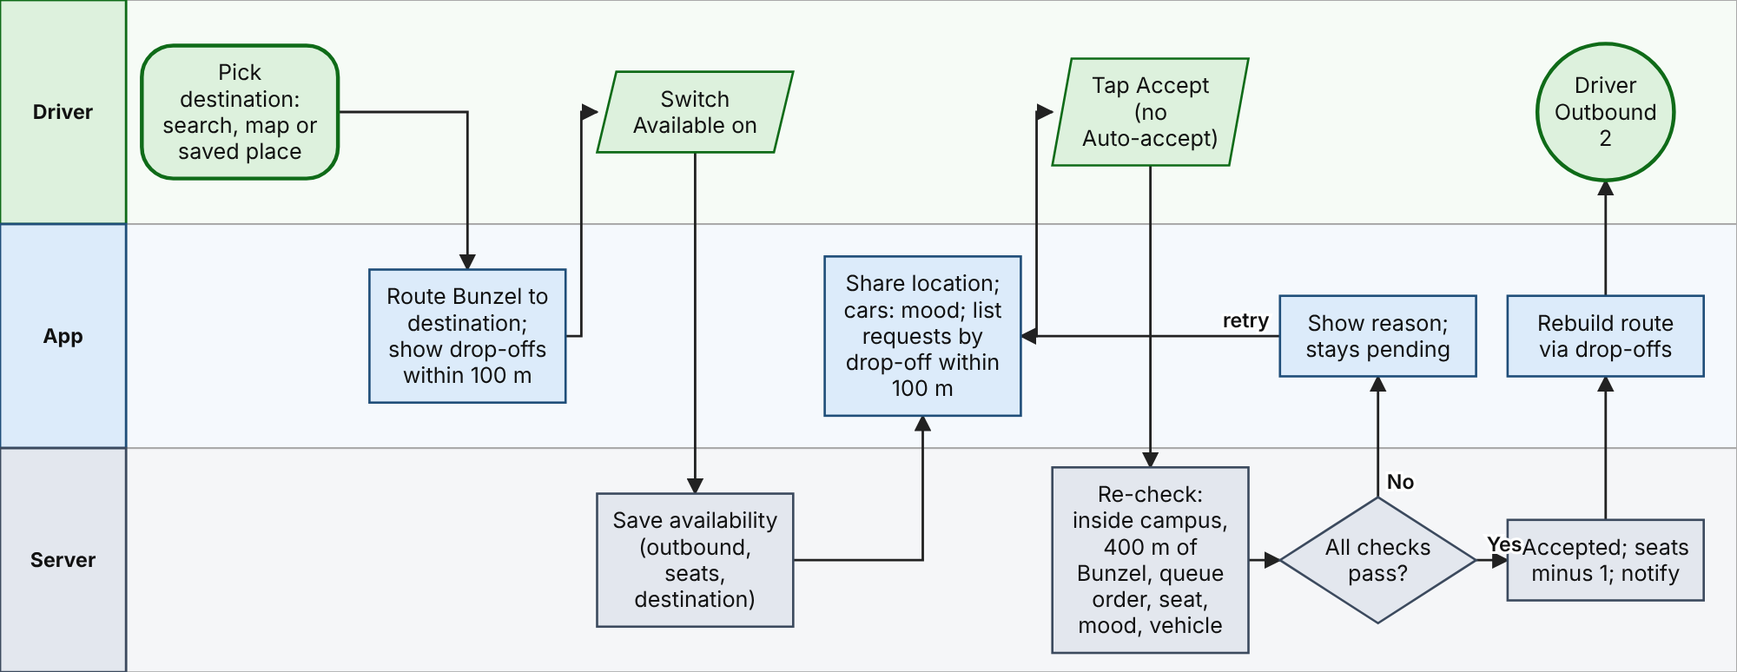
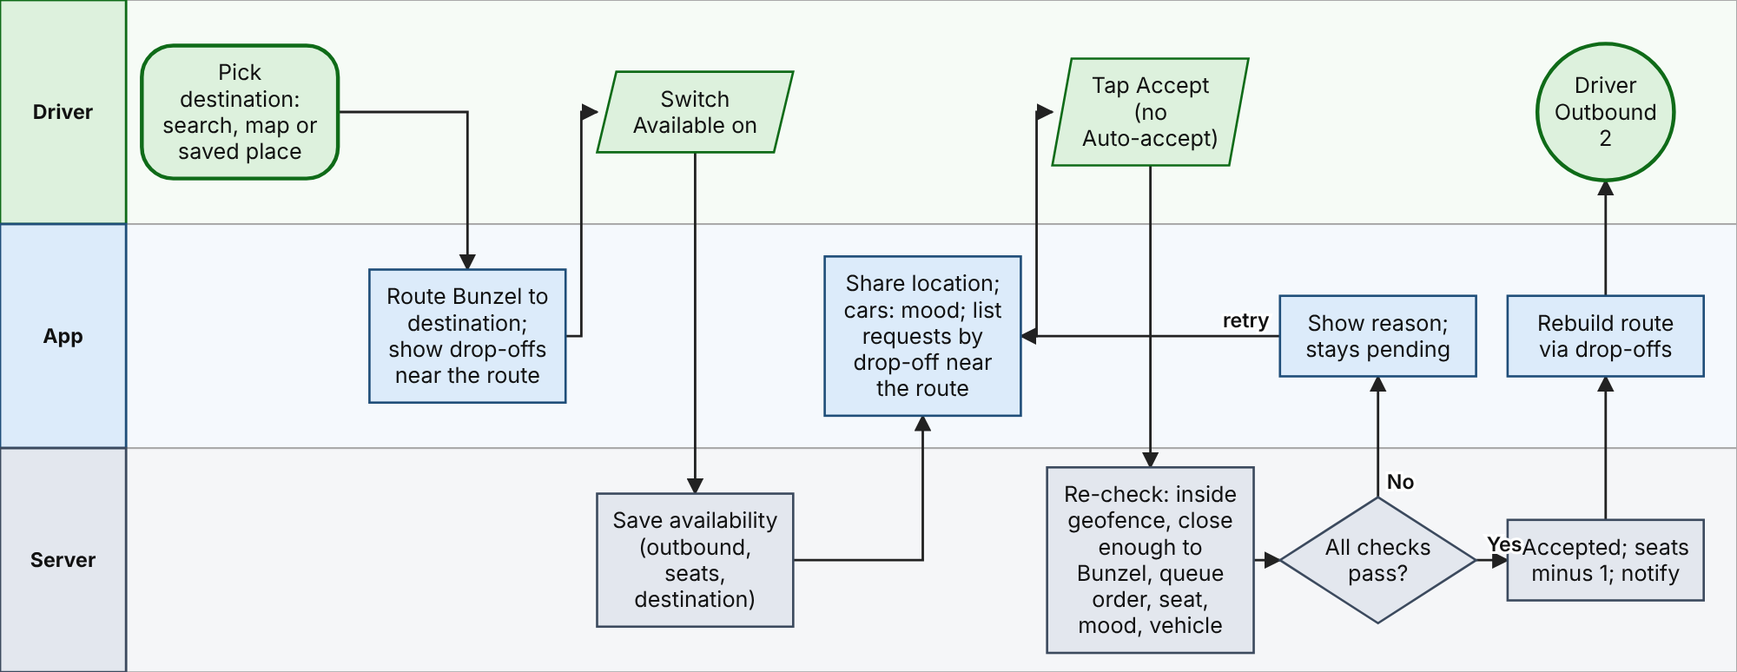
Show the rules for both settings, make the driver flowcharts general
Add a table of the distance and area rules for real-life commuting and for
the controlled setting, make the distance statements point to it, make the
matching conditions figure general, and replace the five driver flowcharts
with versions that apply to both settings.

Changed region(s): [[0.589, 0.7132, 0.744, 0.8372], [0.465, 0.5271, 0.589, 0.5891], [0.217, 0.5271, 0.31, 0.5891]]

diff --git a/chapter3.tex b/chapter3.tex
@@ -347,7 +347,7 @@ When requesting a ride, passengers select the moods they accept (Lively, Chill, 
 
 \textbf{Why a fail-open filter.} The AI is an optional layer on the ridesharing function, so it must not be able to stop a ride. The alternatives were to exclude every driver whose tag does not match, including drivers whose tag is unknown, and to rank compatible drivers higher instead of excluding the others. Excluding unknown tags would block rides whenever the classifier is unsure or the microphone is unavailable, and it would thin the pool of drivers (Table~\ref{tab:ai-chance}). Ranking would limit the cost of a wrong tag, but it would also show passengers drivers whose mood they did not choose, so it is recommended for future work (Section~\ref{sec:recs}).
 
-The function first evaluates the following hard filters, numbered as in the use-case catalogue, all of which must hold: the request is still pending (HF-7); the driver is an approved driver whose account has not been suspended (HF-1) and who is set to Available on a route direction matching the request (HF-2); the driver’s stored location is on the correct side of the Bunzel geofence for that direction (outside it for inbound, inside it for outbound); at least one passenger seat remains (HF-4); and the driver is within 100 m of the pickup point for an inbound trip, or within 400 m for an outbound trip, by straight-line distance (HF-5). A passenger’s vehicle-type preference is then applied with the same fail-open rule as mood. When a passenger prefers a motorcycle, the mood selector is replaced by a short note and the mood preference is stored as Any, because motorcycles do not run mood detection. The driver can accept only the oldest pending request at that pickup point and direction (first-in, first-out, described below). For outbound trips, the driver must also have chosen a final destination. Route alignment (HF-3) is applied on the driver’s screen as a display filter, because the server stores the driver’s location but not the route, so a request is shown only when its pickup lies within 30 m of the remaining route.
+The function first evaluates the following hard filters, numbered as in the use-case catalogue, all of which must hold: the request is still pending (HF-7); the driver is an approved driver whose account has not been suspended (HF-1) and who is set to Available on a route direction matching the request (HF-2); the driver’s stored location is on the correct side of the geofence for that direction (outside it for inbound, inside it for outbound); at least one passenger seat remains (HF-4); and the driver is within the acceptance distance of the pickup point by straight-line distance (HF-5; Table~\ref{tab:rules-by-setting}). A passenger’s vehicle-type preference is then applied with the same fail-open rule as mood. When a passenger prefers a motorcycle, the mood selector is replaced by a short note and the mood preference is stored as Any, because motorcycles do not run mood detection. The driver can accept only the oldest pending request at that pickup point and direction (first-in, first-out, described below). For outbound trips, the driver must also have chosen a final destination. Route alignment (HF-3) is applied on the driver’s screen as a display filter, because the server stores the driver’s location but not the route, so a request is shown only when its pickup lies within the route-match distance of the remaining route (Table~\ref{tab:rules-by-setting}).
 
 Requests are served first-in, first-out. A passenger’s place in the queue is fixed by the time the passenger first joined and never resets when the passenger edits their preferences. This prevents users from gaming the queue and keeps the concurrency logic simple.
 
@@ -417,7 +417,7 @@ Campus fence & An inbound driver is off campus, and an outbound driver is on cam
 \hline
 Seats & At least one passenger seat remains. & Rejected \\
 \hline
-Distance & The driver is within 100 m (inbound) or 400 m (outbound) of the pickup point in a straight line. & Rejected \\
+Distance & The driver is within the acceptance distance of the pickup point in a straight line (Table~\ref{tab:rules-by-setting}). & Rejected \\
 \hline
 Mood & The passenger’s accepted moods are empty or include all three (Any), or the driver’s tag is unknown, or the tag is on the passenger’s list. & Rejected only when the tag is known and not on a partial list \\
 \hline
@@ -509,7 +509,7 @@ The routing system classifies trips relative to an operational polygon around th
 
 Bunzel Point is the fixed terminal for the study: inbound requests end at Bunzel, while outbound requests begin there. The other points selected for testing and demonstration are USC TC Portal, SMED/Dorm, SAS, RH Building, LRC Building, MR Hall, SAFAD, and TC Church. These points are within USC-TC but outside the Bunzel geofence.
 
-The application maintains a local copy of the polygon for an immediate direction indication and offline fallback. The server also classifies the passenger’s supplied current location when creating a request. For an inbound request, the server requires the destination to be at the Bunzel anchor and the passenger to be within 20~m of the selected pickup point. For an outbound request, the server requires the pickup to be at the Bunzel anchor.
+The application maintains a local copy of the polygon for an immediate direction indication and offline fallback. The server also classifies the passenger’s supplied current location when creating a request. For an inbound request, the server requires the destination to be at the Bunzel anchor and the passenger to be within the inbound request distance of the selected pickup point (Table~\ref{tab:rules-by-setting}). For an outbound request, the server requires the pickup to be at the Bunzel anchor.
 
 The route service requests route geometry, distance, and duration through the Google Routes API; OSRM provides a fallback. During driving, the application can request a new route when the driver is at least 75~m from the current route or has moved at least 50~m since the previous calculation, subject to a minimum interval of 15 seconds. These thresholds are implementation settings rather than evidence of routing accuracy.
 
@@ -592,9 +592,44 @@ The driver interface presents requests associated with pickup points near the re
     \label{fig: matching conditions}
 \end{figure}
 
-On the driver's screen, route alignment uses a 30~m proximity threshold from the relevant ride point to the remaining route. Requests at the same queue point and direction are ordered by creation time. On acceptance, the \texttt{matchRide} Cloud Function checks that the request is pending, the driver is available and approved, the trip direction and position relative to the Bunzel geofence agree, and a seat remains. The driver's straight-line distance from the pickup must be no more than 100~m for inbound trips or 400~m for outbound trips. The function also checks queue order and vehicle preference before updating the request and capacity in a transaction. An unknown vehicle type is treated as compatible. The server does not independently recheck the route-proximity filter because it does not have the route polyline.
+On the driver's screen, route alignment uses the route-match distance from the relevant ride point to the remaining route (Table~\ref{tab:rules-by-setting}). Requests at the same queue point and direction are ordered by creation time. On acceptance, the \texttt{matchRide} Cloud Function checks that the request is pending, the driver is available and approved, the trip direction and position relative to the geofence agree, and a seat remains. The driver's straight-line distance from the pickup must be no more than the acceptance distance of the trip's direction (Table~\ref{tab:rules-by-setting}). The function also checks queue order and vehicle preference before updating the request and capacity in a transaction. An unknown vehicle type is treated as compatible. The server does not independently recheck the route-proximity filter because it does not have the route polyline.
 
-Two further limits keep the interaction safe and relevant. An inbound passenger can only request a pickup point that is within 20~m of their position. A driver is shown a request only when its pickup point is within 30~m of the remaining route, and can accept it only when the driver is within 100~m of the pickup point for an inbound trip, or within 400~m for an outbound trip, and the passengers on board are below the vehicle's capacity. When a driver's position changes so that a waiting request becomes eligible under these checks, a Cloud Function uses the same server-side eligibility check as acceptance and sends a push notification, so the driver does not have to keep the screen open. To limit distraction, an inbound driver is prompted only when a passenger is 60 to 100~m ahead; the original design used a window of 300 to 400~m. When the match is accepted, the server also copies each side's display name and rating, and the driver's vehicle type and plate number, onto the request so that the two riders can recognize each other.
+The distances of these checks depend on the setting. The system was designed for real-life commuting. The controlled setting was used only for testing and demonstration, and it uses a smaller geofence and shorter distances. Table~\ref{tab:rules-by-setting} gives both.
+
+\begin{table}[htbp]
+    \centering
+    \caption{Distance and Area Rules by Setting}
+    \label{tab:rules-by-setting}
+    \small
+    \renewcommand{\arraystretch}{1.25}
+    \begin{tabular}{|>{\raggedright\arraybackslash}p{0.27\textwidth}|>{\raggedright\arraybackslash}p{0.30\textwidth}|>{\raggedright\arraybackslash}p{0.30\textwidth}|}
+        \hline
+        \textbf{Rule} & \textbf{Real-life commuting} & \textbf{Controlled setting (testing and demonstration)} \\
+        \hline
+        Geofence area & A polygon around the USC-TC campus & A smaller polygon around the Bunzel building \\
+        \hline
+        Trip direction & Inside the geofence: outbound. Outside: inbound. & Inside the Bunzel geofence: outbound. Outside: inbound. \\
+        \hline
+        Inbound request distance (passenger to the selected pickup point) & Within 100 m & Within 20 m \\
+        \hline
+        Outbound request (passenger) & Inside the campus geofence and within 100 m of Bunzel & Inside the Bunzel geofence \\
+        \hline
+        Route-match distance (point to the driver's route) & Within 100 m & Within 30 m \\
+        \hline
+        Acceptance distance, inbound (driver to the pickup point) & Within 400 m & Within 100 m \\
+        \hline
+        Acceptance distance, outbound (driver to the pickup point) & Within 400 m & Within 400 m \\
+        \hline
+        Pickup confirmation & No distance check after acceptance & No distance check after acceptance \\
+        \hline
+        Inbound ride completion & Inside the campus geofence or within 150 m of Bunzel & Inside the Bunzel geofence or within 150 m of Bunzel \\
+        \hline
+        Outbound drop-off confirmation & Within 30 m of the passenger's destination & Within 30 m of the passenger's destination \\
+        \hline
+    \end{tabular}
+\end{table}
+
+Two further limits keep the interaction safe and relevant. An inbound passenger can only request a pickup point that is within the inbound request distance of their position. A driver is shown a request only when its pickup point is within the route-match distance of the remaining route, and can accept it only when the driver is within the acceptance distance of the pickup point and the passengers on board are below the vehicle's capacity. When a driver's position changes so that a waiting request becomes eligible under these checks, a Cloud Function uses the same server-side eligibility check as acceptance and sends a push notification, so the driver does not have to keep the screen open. To limit distraction, an inbound driver is prompted only when a passenger is 60 to 100~m ahead; the original design used a window of 300 to 400~m. When the match is accepted, the server also copies each side's display name and rating, and the driver's vehicle type and plate number, onto the request so that the two riders can recognize each other.
 
 This logic is consistent with optimization practices found in ride-hailing literature, where user fairness and system-level route efficiency are jointly considered to balance service quality and operational practicality \cite{cao2021optimization}. Additionally, minimizing cognitive load on drivers through controlled notifications aligns with research showing that poorly timed prompts can contribute to distracted driving and reduce overall safety—particularly among younger, less experienced drivers such as university students \cite{xing2024understanding,oviedo2018young}. By showing a driver only requests that are on the route, close enough to accept, and within capacity, and by notifying only when a request becomes eligible, the system limits unnecessary prompts while maintaining real-time responsiveness in a multi-user environment.
 
@@ -690,7 +725,7 @@ Figure~\ref{fig:driver menu} shows the user flow for the Driver Menu. The driver
         \label{fig:ui-driver-menu}
     \end{figure}
 
-\paragraph{Inbound USC-TC} Figures~\ref{fig: Driver Inbound} and~\ref{fig: Driver Inbound 2} show the process a student driver follows when offering rides to USC-TC. The application draws a route from the driver's location to the Bunzel Lobby (Figure~\ref{fig:ui-driver-inbound}a). When the driver switches \emph{Available} on, the application saves the driver's availability, begins sharing the driver's location, and, for cars, starts mood detection (Section~\ref{sec:ai}). Requests whose pickup point lies within 30~m of the route are listed, oldest first at each pickup point, and drawn on the map (Figure~\ref{fig:ui-driver-inbound}b). The driver accepts a request by tapping \emph{Accept}, or turns on \emph{Auto-accept}, in which case the application accepts the oldest eligible request itself. In both cases the server repeats the checks of Section~\ref{sec:matching} before the request is accepted. After an acceptance, the seat count drops and the route is rebuilt through the accepted pickup points (Figure~\ref{fig:ui-driver-inbound}c). At each pickup point the driver taps \emph{Confirm pickup}; the first confirmation starts the trip and live tracking for the passengers. If the driver leaves the route by 75~m or more, the route is recalculated automatically. During the trip, a passenger may ask for an early drop-off, which the driver confirms. A driver may cancel a passenger who has not yet been picked up, which frees the seat, or end the whole trip early, in which case the passengers on board are recorded as \emph{terminated early} and no Ride Tokens are earned. When every accepted passenger has been picked up, the driver taps \emph{Complete ride} (Figure~\ref{fig:ui-driver-inbound}d).
+\paragraph{Inbound USC-TC} Figures~\ref{fig: Driver Inbound} and~\ref{fig: Driver Inbound 2} show the process a student driver follows when offering rides to USC-TC. The application draws a route from the driver's location to the Bunzel Lobby (Figure~\ref{fig:ui-driver-inbound}a). When the driver switches \emph{Available} on, the application saves the driver's availability, begins sharing the driver's location, and, for cars, starts mood detection (Section~\ref{sec:ai}). Requests whose pickup point lies within the route-match distance of the route are listed, oldest first at each pickup point, and drawn on the map (Figure~\ref{fig:ui-driver-inbound}b). The driver accepts a request by tapping \emph{Accept}, or turns on \emph{Auto-accept}, in which case the application accepts the oldest eligible request itself. In both cases the server repeats the checks of Section~\ref{sec:matching} before the request is accepted. After an acceptance, the seat count drops and the route is rebuilt through the accepted pickup points (Figure~\ref{fig:ui-driver-inbound}c). At each pickup point the driver taps \emph{Confirm pickup}; the first confirmation starts the trip and live tracking for the passengers. If the driver leaves the route by 75~m or more, the route is recalculated automatically. During the trip, a passenger may ask for an early drop-off, which the driver confirms. A driver may cancel a passenger who has not yet been picked up, which frees the seat, or end the whole trip early, in which case the passengers on board are recorded as \emph{terminated early} and no Ride Tokens are earned. When every accepted passenger has been picked up, the driver taps \emph{Complete ride} (Figure~\ref{fig:ui-driver-inbound}d).
 
     \flowsplit{Driver Inbound to USC-TC (1 of 2): going available and accepting requests}{fig: Driver Inbound}{Driver Inbound 1}
 
@@ -728,7 +763,7 @@ Figure~\ref{fig: passenger menu} shows the user flow for the Passenger Menu. The
 
     \flowsplit{Passenger Menu}{fig: passenger menu}{Passenger Menu}
 
-\paragraph{Inbound USC-TC} Figures~\ref{fig: Passenger Inbound} and~\ref{fig: Passenger Inbound 2} outline the passenger's journey to the campus. The application shows the approved pickup points near the passenger, each marked \emph{In range} or \emph{Too far} (Figure~\ref{fig:ui-pax-inbound}a). A request can only be made for a point within 20~m of the passenger. The passenger then chooses which moods to accept and a vehicle preference, where \emph{Any} matches every driver (Figure~\ref{fig:ui-pax-inbound}b), and taps \emph{Request ride}. The server creates the request, sets its direction from the pickup point, and fixes the passenger's place in the first-in, first-out queue of that pickup point. The waiting screen reads \emph{Looking for a driver} (Figure~\ref{fig:ui-pax-inbound}c). If the passenger moves more than 20~m from the pickup point while waiting, the request is cancelled automatically. After about two minutes without a match, the passenger may accept more moods or vehicle types; this edits the same request, so the queue place does not change (Section~\ref{sec:moodmatch}). When a driver accepts, the passenger is notified, can follow the driver's location on the map, and can chat with the driver (Figure~\ref{fig:ui-pax-inbound}d). If the driver cancels or ends the trip early, the passenger sees a notice and may request again. A passenger who needs to leave before the end can ask for an early drop-off, which the driver confirms.
+\paragraph{Inbound USC-TC} Figures~\ref{fig: Passenger Inbound} and~\ref{fig: Passenger Inbound 2} outline the passenger's journey to the campus. The application shows the approved pickup points near the passenger, each marked \emph{In range} or \emph{Too far} (Figure~\ref{fig:ui-pax-inbound}a). A request can only be made for a point within the inbound request distance of the passenger. The passenger then chooses which moods to accept and a vehicle preference, where \emph{Any} matches every driver (Figure~\ref{fig:ui-pax-inbound}b), and taps \emph{Request ride}. The server creates the request, sets its direction from the pickup point, and fixes the passenger's place in the first-in, first-out queue of that pickup point. The waiting screen reads \emph{Looking for a driver} (Figure~\ref{fig:ui-pax-inbound}c). If the passenger moves away from the pickup point by more than that distance while waiting, the request is cancelled automatically. After about two minutes without a match, the passenger may accept more moods or vehicle types; this edits the same request, so the queue place does not change (Section~\ref{sec:moodmatch}). When a driver accepts, the passenger is notified, can follow the driver's location on the map, and can chat with the driver (Figure~\ref{fig:ui-pax-inbound}d). If the driver cancels or ends the trip early, the passenger sees a notice and may request again. A passenger who needs to leave before the end can ask for an early drop-off, which the driver confirms.
 
     \flowsplit{Passenger Inbound to USC-TC (1 of 2): requesting a ride}{fig: Passenger Inbound}{Passenger Inbound 1}
 
@@ -744,7 +779,7 @@ Figure~\ref{fig: passenger menu} shows the user flow for the Passenger Menu. The
         \label{fig:ui-pax-inbound}
     \end{figure}
 
-\paragraph{Outbound USC-TC} Figures~\ref{fig: Passenger Outbound} and~\ref{fig: Passenger Outbound 2} detail how a passenger books a trip from the campus to an external destination. The passenger must be inside the Bunzel geofence, and the Bunzel Lobby is the only pickup point. The passenger opens the drop-off picker and selects one of the approved drop-off points (Figure~\ref{fig:ui-pax-outbound}a), sets the preferences as for inbound trips, and taps \emph{Request ride}. If no driver accepts, the passenger can try a different drop-off point; the alternatives are ranked by how many available drivers are heading that way (Figure~\ref{fig:ui-pax-outbound}b, Section~\ref{sec:matching}). Once a driver accepts, the passenger is notified (Figure~\ref{fig:ui-pax-outbound}c), is picked up at the Bunzel Lobby, and is dropped off at the chosen point.
+\paragraph{Outbound USC-TC} Figures~\ref{fig: Passenger Outbound} and~\ref{fig: Passenger Outbound 2} detail how a passenger books a trip from the campus to an external destination. The passenger must be inside the geofence, and the Bunzel Lobby is the only pickup point (Table~\ref{tab:rules-by-setting}). The passenger opens the drop-off picker and selects one of the approved drop-off points (Figure~\ref{fig:ui-pax-outbound}a), sets the preferences as for inbound trips, and taps \emph{Request ride}. If no driver accepts, the passenger can try a different drop-off point; the alternatives are ranked by how many available drivers are heading that way (Figure~\ref{fig:ui-pax-outbound}b, Section~\ref{sec:matching}). Once a driver accepts, the passenger is notified (Figure~\ref{fig:ui-pax-outbound}c), is picked up at the Bunzel Lobby, and is dropped off at the chosen point.
 
     \flowsplit{Passenger Outbound from USC-TC (1 of 2): requesting a ride}{fig: Passenger Outbound}{Passenger Outbound 1}
 
@@ -1430,7 +1465,7 @@ Testing is carried out in four phases. The first two phases are referred to as a
     \end{tabular}
 \end{table}
 
-\paragraph{Reference standard.} The four phases follow the test levels described in ISO/IEC/IEEE 29119 (Section~\ref{sec:standards}): unit testing of individual rules, system testing of the integrated application, and acceptance testing by the intended users, with beta testing by outside volunteers added before the acceptance phase. Following the documentation practice of the standard, each system test case records a step, an expected result, and an actual result per device, and the beta tasks are kept as a fixed written task list (Appendix~\ref{app:beta}). The expected results come from the specified rules, such as the 100~m (inbound) and 400~m (outbound) acceptance limits, the 30~m route-match radius, and the token scenarios of Section~\ref{sec:tokens}, which corresponds to the requirement-based test design described in Part 4 of the standard. Part 11 of the standard, on AI-based systems, is a pointer for the mood classifier, which is evaluated on a held-out test set and on real-world songs (Chapter~4). The standard serves only as a reference framework; the testing was not assessed for conformance with it.
+\paragraph{Reference standard.} The four phases follow the test levels described in ISO/IEC/IEEE 29119 (Section~\ref{sec:standards}): unit testing of individual rules, system testing of the integrated application, and acceptance testing by the intended users, with beta testing by outside volunteers added before the acceptance phase. Following the documentation practice of the standard, each system test case records a step, an expected result, and an actual result per device, and the beta tasks are kept as a fixed written task list (Appendix~\ref{app:beta}). The expected results come from the specified rules, such as the acceptance and route-match distances of Table~\ref{tab:rules-by-setting}, and the token scenarios of Section~\ref{sec:tokens}, which corresponds to the requirement-based test design described in Part 4 of the standard. Part 11 of the standard, on AI-based systems, is a pointer for the mood classifier, which is evaluated on a held-out test set and on real-world songs (Chapter~4). The standard serves only as a reference framework; the testing was not assessed for conformance with it.
 
 \paragraph{Testing approach.} The tester tasks and the survey are black box testing: the testers do not know the code and judge the application only by the inputs they give and the outputs they see \cite{gfgbox}. Beta testing means that a limited group of real users tries the application and gives feedback, and acceptance testing means that end users check that the application meets their requirements in realistic scenarios \cite{gfgacceptance}. The results are kept in two groups. Functional testing checks that the application works according to its specified requirements \cite{gfgfunctional}; it is the task list, where each task is recorded as Pass, Fail, or Could not try. Non-functional testing checks how well the application works rather than what it does \cite{gfgnonfunctional}; here it is the survey questions on speed, notifications, readability, reliability, and privacy and, in the user acceptance testing, the System Usability Scale. These are the testers' perceptions, not measurements, and no phase times responses under load, so this study does not claim performance or load testing. The user acceptance phase is judged mainly on these usability and perception questions. The automated and rules tests run by the proponents are white box testing, because the tester knows the code, and checks made with partial knowledge of the internals, such as comparing a token award with the formula, are grey box testing \cite{gfgbox}.
 
@@ -1451,7 +1486,7 @@ On Android devices during alpha and beta testing, the proponents built the appli
 For alpha and beta testing, the proponents signed in with their own Apple IDs and used their own Bundle Identifiers. For the iOS devices in UAT, the proponents asked each participant to sign in with his or her Apple ID in Xcode during onboarding, on the proponents' computer, and every step after that was done in the same way. The proponents used free Apple ID accounts, and an application signed with a free Apple ID stops opening after seven days. The proponents therefore reinstalled the application on each iOS device after seven days.
 
 \subsubsection{Phase 1: Unit Testing}
-Unit testing is automated and is white box testing. It runs the Flutter static analysis (\texttt{flutter analyze}), the Flutter test suite (\texttt{flutter test}), the Cloud Functions test suite (\texttt{npm run test:functions}), the Firestore and Storage rules tests (\texttt{npm run test:rules}, run in the Firebase emulator), and a set of nine verification scripts. The Flutter tests are grouped into six areas: accounts and registration, ride flow and matching, tokens, fuel, and the CES period, admin, reports, and ratings, mood detection, and shared interface and safety. The scripts check that the server campus geofence agrees with the client, the \texttt{matchRide} rules (100 m inbound and 400 m outbound limits, geofence-side direction, capacity, and vehicle filters), the Ride Token arithmetic against the scenarios in this manuscript, the routes and Places parsers, the ranking of alternative drop-off points, the Firestore and Storage security rules, and the DOE fuel price parser, which can also be run live against the current DOE report. A few parts have no automated test of their own, namely the eleven push notification triggers, the privacy retention functions, the callable functions that create ride requests and calculate Ride Tokens, the emergency report function, and some client services for the trip lifecycle and notification navigation. These are covered by the system test cases instead.
+Unit testing is automated and is white box testing. It runs the Flutter static analysis (\texttt{flutter analyze}), the Flutter test suite (\texttt{flutter test}), the Cloud Functions test suite (\texttt{npm run test:functions}), the Firestore and Storage rules tests (\texttt{npm run test:rules}, run in the Firebase emulator), and a set of nine verification scripts. The Flutter tests are grouped into six areas: accounts and registration, ride flow and matching, tokens, fuel, and the CES period, admin, reports, and ratings, mood detection, and shared interface and safety. The scripts check that the server campus geofence agrees with the client, the \texttt{matchRide} rules (acceptance distance, geofence-side direction, capacity, and vehicle filters), the Ride Token arithmetic against the scenarios in this manuscript, the routes and Places parsers, the ranking of alternative drop-off points, the Firestore and Storage security rules, and the DOE fuel price parser, which can also be run live against the current DOE report. A few parts have no automated test of their own, namely the eleven push notification triggers, the privacy retention functions, the callable functions that create ride requests and calculate Ride Tokens, the emergency report function, and some client services for the trip lifecycle and notification navigation. These are covered by the system test cases instead.
 
 \subsubsection{Phase 2: System Testing}
 System testing runs 32 cases that exercise the application as a whole through its screens, with some checks made against the backend. The cases are grouped into six areas, accounts and admin (S-A1 to S-A6), ride flow (S-B1 to S-B8), matching filters (S-C1 to S-C6), tokens and fuel (S-D1 to S-D4), notifications and chat (S-E1 to S-E4), and safety and privacy (S-F1 to S-F4), and they are listed in Appendix~\ref{app:systemcases}. Each case lists a step, an expected result, and the actual result per device, together with who ran it, the date, and any defect found. The cases are executed on two emulators, with an admin account and the live backend, and then repeated on three physical devices (Table~\ref{tab:devices}). On the physical devices each case is run in five rounds, and it passes only when all five rounds succeed and fails if at least one round fails. In addition, a set of measurements is recorded per device, taking what was observed rather than an estimate: the time from a ride request to the driver prompt, the time from the driver's acceptance to the passenger's screen update (median of 5 runs each), the cold start time (median of 3 runs), the number of crashes and freezes counted from Firebase Crashlytics and the testers' notes, the number of correct mood detections out of nine test clips (three Lively, three Chill, three Quiet), and the size of the debug build.
